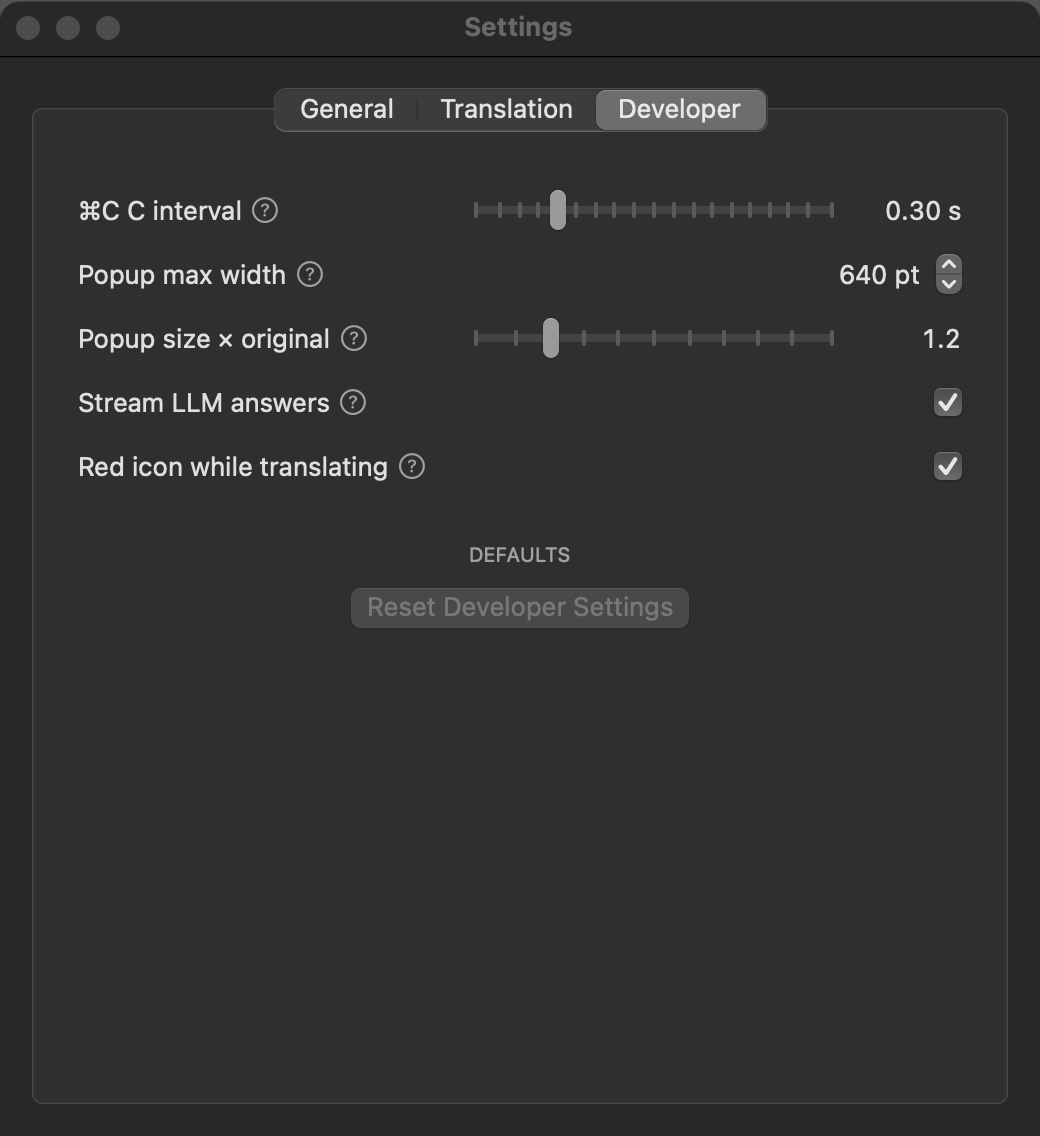
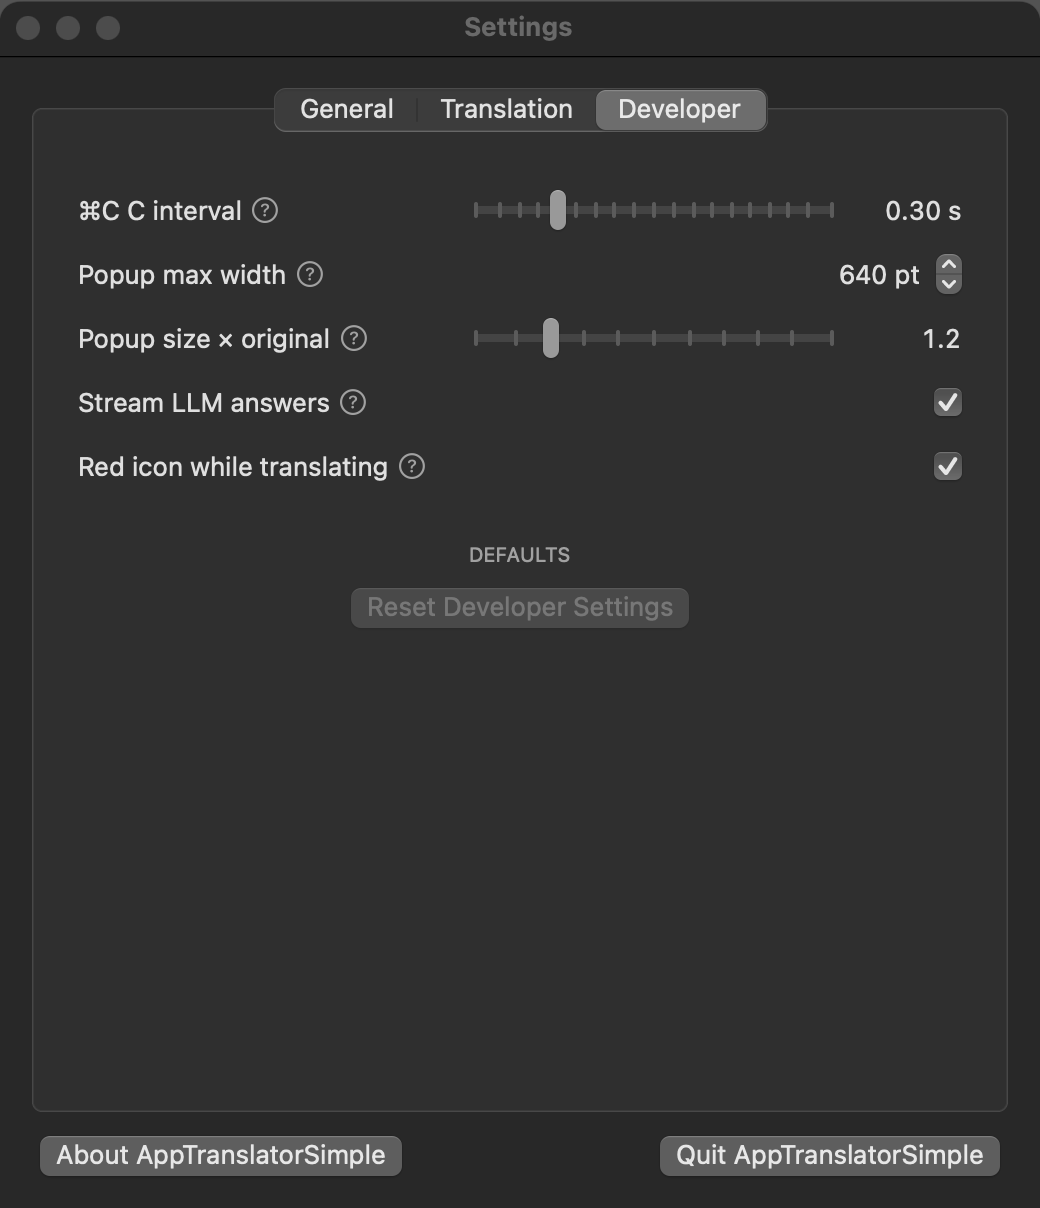
Version 0.0.6

diff --git a/CHANGELOG.md b/CHANGELOG.md
@@ -2,7 +2,7 @@
 
 All notable changes, newest first. The format follows [Keep a Changelog](https://keepachangelog.com/en/1.1.0/).
 
-## [Unreleased]
+## [0.0.6] — 2026-10-11
 
 ### Added
 - Google Translate method: Google's free web endpoint, no key or account. The source language comes
@@ -73,6 +73,7 @@ All notable changes, newest first. The format follows [Keep a Changelog](https:/
 ### Added
 - First prototype: ⌘C C translates EN↔RU with a local model in LM Studio (Xcode project, not buildable from the repo).
 
+[0.0.6]: https://github.com/NikolaevMikhailRoma/mac-AppTranslatorSimple_n_LLM/compare/v0.0.5...v0.0.6
 [0.0.5]: https://github.com/NikolaevMikhailRoma/mac-AppTranslatorSimple_n_LLM/compare/v0.0.4...v0.0.5
 [0.0.4]: https://github.com/NikolaevMikhailRoma/mac-AppTranslatorSimple_n_LLM/compare/v0.0.3...v0.0.4
 [0.0.3]: https://github.com/NikolaevMikhailRoma/mac-AppTranslatorSimple_n_LLM/compare/v0.0.2...v0.0.3

diff --git a/README.md b/README.md
@@ -100,6 +100,7 @@ Run the unit tests with `swift test` (pure logic lives in the
 
 What changed in each version: [CHANGELOG.md](CHANGELOG.md).
 
+- **0.0.6** — Google Translate and DeepL methods (free endpoints, no key), About and Quit at the bottom of Settings.
 - **0.0.5** — Claude subscription and macOS Translation methods, method menu, no App Sandbox (settings reset once), version in the app.
 - **0.0.4** — Settings window, streaming, model list from the server, joining broken lines, screenshots.
 - **0.0.3** — moved to SwiftPM: builds from a clone with `./build.sh`, unit tests.
